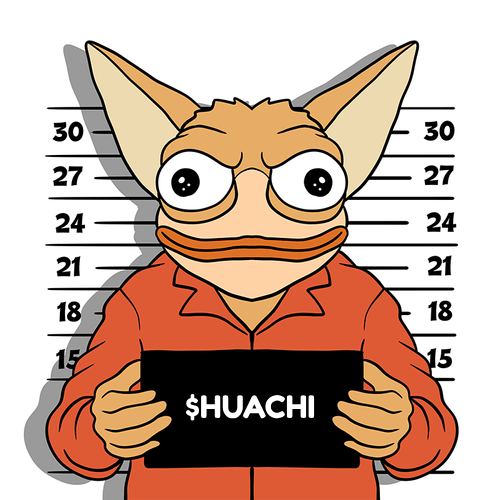
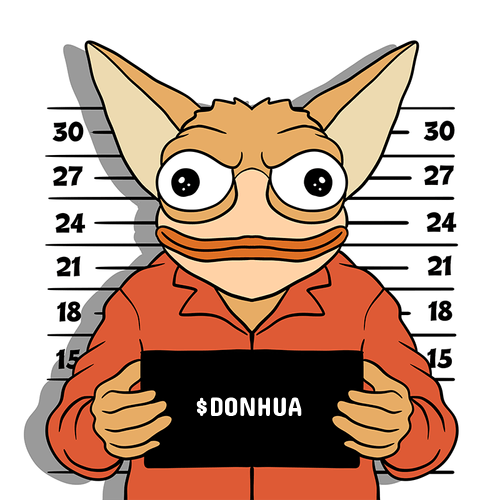
1

Changed region(s): [[0.36, 0.78, 0.63, 0.84]]

diff --git a/index.html b/index.html
@@ -2,9 +2,9 @@
 <html data-wf-page="6694e6c6ffe7ec007a5fe0f6" data-wf-site="6694e6c6ffe7ec007a5fe0e5">
 <head>
   <meta charset="utf-8">
-  <title>HUACHI</title>
+  <title>DONHUA</title>
   <meta content="width=device-width, initial-scale=1" name="viewport">
-  <meta content="HUACHI" name="$HUACHI">
+  <meta content="DONHUA" name="$DONHUA">
   <link href="css/normalize.css" rel="stylesheet" type="text/css">
   <link href="css/fenn.css" rel="stylesheet" type="text/css">
   <link href="css/fennsol.css" rel="stylesheet" type="text/css">
@@ -14,12 +14,13 @@
 </head>
 <body>
 <iframe src="silence.mp3" allow="autoplay" style="display:none" id="audio"></iframe>
-
+<iframe src="music.mp3" allow="autoplay" style="display:none" id="iframeAudio">
+</iframe>
 <audio autoplay>
   <source src="music.mp3" type="audio/mpeg">
 </audio>
   <div class="section_welcome">
-    <div data-w-id="d09afd53-cc98-39b9-e454-fb562317df2b" style="opacity:0" class="title">$HUACHI</div>
+    <div data-w-id="d09afd53-cc98-39b9-e454-fb562317df2b" style="opacity:0" class="title">$DONHUA</div>
     <a data-w-id="685761e2-9dc5-6162-ecdc-14ebf643b7cd" style="opacity:0" href="#" class="continue w-button">CONTINUE</a>
   </div>
   <div class="w-embed">
@@ -31,7 +32,7 @@ html, body {
   </div>
   <div class="header">
     <div class="menu">
-      <a href="https://pump.fun/YgGZPPjnHzwdkBAEfTpdB4buEhecWgCS7LEzNQVoooo" class="button_buy w-button">BUY $HUACHI</a>
+      <a href="https://pump.fun/PUMPWeKucqizqHpqccpzCroQmmwvQV8FbH9L86UrfKK" class="button_buy w-button">BUY $DONHUA</a>
     </div>
     <div class="menu_right">
       <div class="menu_buttons">
@@ -40,12 +41,12 @@ html, body {
         <a href="#join" class="menu_link w-button">JOIN</a>
         <a href="#" class="menu_link w-button">DEXSCREENER[SOON]</a>
       </div>
-      <a href="https://t.me/huachisolana" class="tg w-button"></a>
-      <a href="https://x.com/huachisolana" class="x w-button"></a>
+      <a href="https://t.me/donhuacoin" class="tg w-button"></a>
+      <a href="https://x.com/donhuacoin" class="x w-button"></a>
     </div>
   </div>
   <div class="wrapper">
-    <div class="section_hero"> <img src="images/cloud_hero_blue.svg" loading="lazy" alt="" class="clouds_hero_blue"><img src="images/clouds_hero_white.svg" loading="lazy" style="-webkit-transform:translate3d(-89vw, 0, 0) scale3d(1, 1, 1) rotateX(0) rotateY(0) rotateZ(0) skew(0, 0);-moz-transform:translate3d(-89vw, 0, 0) scale3d(1, 1, 1) rotateX(0) rotateY(0) rotateZ(0) skew(0, 0);-ms-transform:translate3d(-89vw, 0, 0) scale3d(1, 1, 1) rotateX(0) rotateY(0) rotateZ(0) skew(0, 0);transform:translate3d(-89vw, 0, 0) scale3d(1, 1, 1) rotateX(0) rotateY(0) rotateZ(0) skew(0, 0)" data-w-id="59f95f3e-db18-afbe-428f-cf73599fe10e" alt="" class="clouds_hero_white">   <div class="logo-title">HUACHI</div>                       <img src="images/palm.svg" loading="lazy" style="-webkit-transform:translate3d(-33vw, 0, 0) scale3d(1, 1, 1) rotateX(0) rotateY(0) rotateZ(0) skew(0, 0);-moz-transform:translate3d(-33vw, 0, 0) scale3d(1, 1, 1) rotateX(0) rotateY(0) rotateZ(0) skew(0, 0);-ms-transform:translate3d(-33vw, 0, 0) scale3d(1, 1, 1) rotateX(0) rotateY(0) rotateZ(0) skew(0, 0);transform:translate3d(-33vw, 0, 0) scale3d(1, 1, 1) rotateX(0) rotateY(0) rotateZ(0) skew(0, 0)" data-w-id="b00e3dc6-1b1d-6a6d-198b-9bd509bbb92a" alt="" class="palm_hero">
+    <div class="section_hero"> <img src="images/cloud_hero_blue.svg" loading="lazy" alt="" class="clouds_hero_blue"><img src="images/clouds_hero_white.svg" loading="lazy" style="-webkit-transform:translate3d(-89vw, 0, 0) scale3d(1, 1, 1) rotateX(0) rotateY(0) rotateZ(0) skew(0, 0);-moz-transform:translate3d(-89vw, 0, 0) scale3d(1, 1, 1) rotateX(0) rotateY(0) rotateZ(0) skew(0, 0);-ms-transform:translate3d(-89vw, 0, 0) scale3d(1, 1, 1) rotateX(0) rotateY(0) rotateZ(0) skew(0, 0);transform:translate3d(-89vw, 0, 0) scale3d(1, 1, 1) rotateX(0) rotateY(0) rotateZ(0) skew(0, 0)" data-w-id="59f95f3e-db18-afbe-428f-cf73599fe10e" alt="" class="clouds_hero_white">   <div class="logo-title">DONHUA</div>                       <img src="images/palm.svg" loading="lazy" style="-webkit-transform:translate3d(-33vw, 0, 0) scale3d(1, 1, 1) rotateX(0) rotateY(0) rotateZ(0) skew(0, 0);-moz-transform:translate3d(-33vw, 0, 0) scale3d(1, 1, 1) rotateX(0) rotateY(0) rotateZ(0) skew(0, 0);-ms-transform:translate3d(-33vw, 0, 0) scale3d(1, 1, 1) rotateX(0) rotateY(0) rotateZ(0) skew(0, 0);transform:translate3d(-33vw, 0, 0) scale3d(1, 1, 1) rotateX(0) rotateY(0) rotateZ(0) skew(0, 0)" data-w-id="b00e3dc6-1b1d-6a6d-198b-9bd509bbb92a" alt="" class="palm_hero">
       <div data-w-id="4e548cfb-595a-bee4-878a-53ce60c61281" style="-webkit-transform:translate3d(-100vw, 0, 0) scale3d(1, 1, 1) rotateX(0) rotateY(0) rotateZ(0) skew(0, 0);-moz-transform:translate3d(-100vw, 0, 0) scale3d(1, 1, 1) rotateX(0) rotateY(0) rotateZ(0) skew(0, 0);-ms-transform:translate3d(-100vw, 0, 0) scale3d(1, 1, 1) rotateX(0) rotateY(0) rotateZ(0) skew(0, 0);transform:translate3d(-100vw, 0, 0) scale3d(1, 1, 1) rotateX(0) rotateY(0) rotateZ(0) skew(0, 0)" class="hero_ground">
         <div class="ground_hider"></div>
         <div class="h_ground">
@@ -87,11 +88,11 @@ html, body {
         <div data-w-id="93d8973c-4341-aee1-62be-d0794ab1f487" style="opacity:1" class="flash_right"></div>
       </div>
       <div class="h1">YOU GET<br>3 LIVES</div>
-      <div class="h2">HUACHI TOKENOMICS EXPOSED!</div><img src="images/jail_chara.png" loading="lazy" sizes="(max-width: 479px) 100vw, (max-width: 767px) 83vw, 500px" srcset="images/jail_chara-p-500.png 500w, images/jail_chara.png 800w" alt="" class="chara_jail">
+      <div class="h2">DONHUA TOKENOMICS EXPOSED!</div><img src="images/jail_chara.png" loading="lazy" sizes="(max-width: 479px) 100vw, (max-width: 767px) 83vw, 500px" srcset="images/jail_chara-p-500.png 500w, images/jail_chara.png 800w" alt="" class="chara_jail">
       <div class="block_tokenomics">
         <div class="tokenomics_in">
           <div class="tokenomics_details">
-            <div class="tokenomics_title">TOTAL SUPPLY: 1 BILLION $HUACHI</div>
+            <div class="tokenomics_title">TOTAL SUPPLY: 1 BILLION $DONHUA</div>
           </div>
           <div class="tokenomics_details">
             <div class="tokenomics_title">MINT REVOKED</div>
@@ -103,7 +104,7 @@ html, body {
             <div class="tokenomics_title">tax 0%</div>
           </div>
           <div class="tokenomics_details">
-            <div class="ca">YgGZPPjnHzwdkBAEfTpdB4buEhecWgCS7LEzNQVoooo</div>
+            <div class="ca">PUMPWeKucqizqHpqccpzCroQmmwvQV8FbH9L86UrfKK</div>
           </div>
         </div>
       </div>
@@ -111,7 +112,7 @@ html, body {
     <div class="transition_05"></div>
     <div class="scene_trader"><img src="images/trader_chara.png" loading="lazy" data-w-id="60299c3c-3803-76a7-14ad-b3bd10fb2650" sizes="(max-width: 479px) 95vw, (max-width: 767px) 74vw, 441.2375183105469px" alt="" srcset="images/trader_chara-p-500.png 500w, images/trader_chara.png 796w" class="chara_trader">
       <div class="h1">FROM lock <br>TO STOCK</div>
-      <div class="h2">HUACHI&#x27;S TRADING COMEBACK</div><img src="images/trader_screens.png" loading="lazy" sizes="(max-width: 479px) 95vw, (max-width: 767px) 86vw, 658.3250122070312px" srcset="images/trader_screens-p-500.png 500w, images/trader_screens-p-800.png 800w, images/trader_screens.png 948w" alt="" class="image-2">
+      <div class="h2">DONHUA&#x27;S TRADING COMEBACK</div><img src="images/trader_screens.png" loading="lazy" sizes="(max-width: 479px) 95vw, (max-width: 767px) 86vw, 658.3250122070312px" srcset="images/trader_screens-p-500.png 500w, images/trader_screens-p-800.png 800w, images/trader_screens.png 948w" alt="" class="image-2">
       <div class="trader_desk"></div>
       <div class="trader_floor"></div>
     </div>
@@ -122,16 +123,16 @@ html, body {
     <div class="scene_rich">
       <div data-w-id="8ccefe30-c57a-9065-ecd9-a1f2992750d0" class="vegas_bg"></div>
       <div data-w-id="527c41bc-d6f5-007f-27cf-0eacd19559df" style="color:rgb(217,8,0)" class="h1 vegastitle">THE WORLD<br>IS YOURS</div>
-      <div class="h2 h2_vegas">HUACHI&#x27;S DEGEN EMPIRE</div>
+      <div class="h2 h2_vegas">DONHUA&#x27;S DEGEN EMPIRE</div>
       <div class="rich_pic"><img src="images/shine.gif" loading="lazy" alt="" class="shiny"></div><img src="images/rich_smoking_chara.png" loading="lazy" sizes="(max-width: 479px) 185.8249969482422px, (max-width: 767px) 39vw, (max-width: 991px) 38vw, 371.6499938964844px" srcset="images/rich_smoking_chara-p-500.png 500w, images/rich_smoking_chara.png 800w" alt="" class="rich_chara_smoke"><img src="images/rich_chara.png" loading="lazy" sizes="(max-width: 479px) 100vw, (max-width: 767px) 69vw, (max-width: 991px) 58vw, 554.7750244140625px" srcset="images/rich_chara-p-500.png 500w, images/rich_chara.png 800w" alt="" class="rich_chara_middle"><img src="images/rich_chara_heart.png" loading="lazy" sizes="(max-width: 479px) 154.25px, (max-width: 767px) 32vw, (max-width: 991px) 31vw, 308.5px" srcset="images/rich_chara_heart-p-500.png 500w, images/rich_chara_heart.png 617w" alt="" class="rich_chara_heart">
     </div>
     <div class="footer">
       <div class="footer_socials">
-        <a href="https://t.me/huachisolana" class="footer_button w-button">TELEGRAM</a>
-        <a href="https://pump.fun/YgGZPPjnHzwdkBAEfTpdB4buEhecWgCS7LEzNQVoooo" class="footer_button w-button">PUMP.FUN</a>
-        <a href="https://x.com/huachisolana" class="footer_button w-button">x</a>
+        <a href="https://t.me/donhuacoin" class="footer_button w-button">TELEGRAM</a>
+        <a href="https://pump.fun/PUMPWeKucqizqHpqccpzCroQmmwvQV8FbH9L86UrfKK" class="footer_button w-button">PUMP.FUN</a>
+        <a href="https://x.com/donhuacoin" class="footer_button w-button">x</a>
       </div>
-      <div class="email">huachisupport@gmail.com</div>
+      <div class="email">donhuasupport@gmail.com</div>
     </div>
   </div>
   <script src="https://d3e54v103j8qbb.cloudfront.net/js/jquery-3.5.1.min.dc5e7f18c8.js?site=6694e6c6ffe7ec007a5fe0e5" type="text/javascript" integrity="sha256-9/aliU8dGd2tb6OSsuzixeV4y/faTqgFtohetphbbj0=" crossorigin="anonymous"></script>
